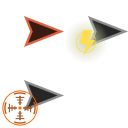
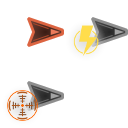
arena: Improved targetting arrow graphics

Changed region(s): [[0.0, 0.625, 0.5, 1.0], [0.5625, 0.125, 1.0, 0.4688], [0.1875, 0.125, 0.5, 0.375]]

diff --git a/src/ui/battle/Targetting.ts b/src/ui/battle/Targetting.ts
@@ -89,6 +89,7 @@ module TS.SpaceTac.UI {
                 let angle = Math.atan2(dy, dx);
                 dx = Math.cos(angle);
                 dy = Math.sin(angle);
+                line.lineStyle(3, color);
                 for (let d = gradation; d <= dist; d += gradation) {
                     line.moveTo(x1 + dx * d + dy * 10, y1 + dy * d - dx * 10);
                     line.lineTo(x1 + dx * d - dy * 10, y1 + dy * d + dx * 10);
